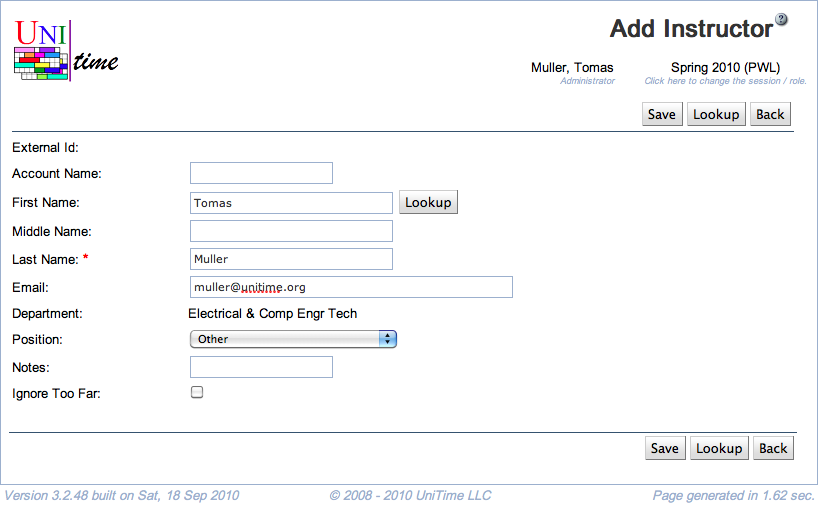
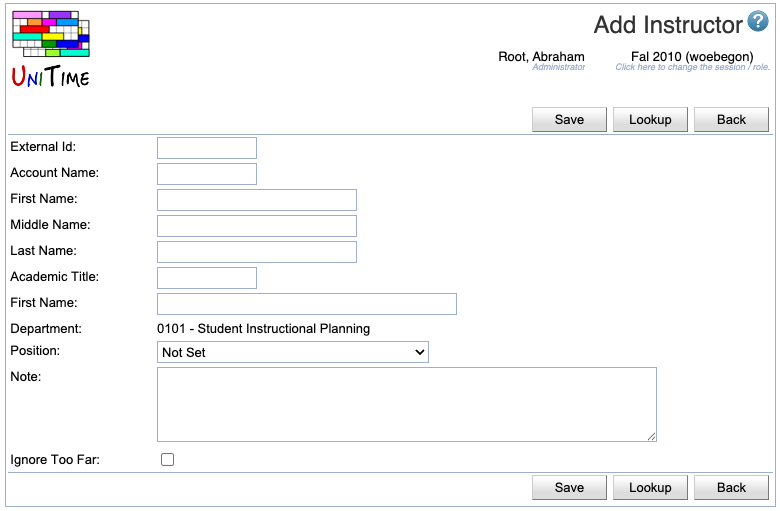
Add/Edit Instructor
- new screenshots, new fields, text cleanup

diff --git a/instructor-detail.md b/instructor-detail.md
@@ -14,7 +14,17 @@ In the Instructor Detail screen, you can see information about a given instructo
 
 The header of this section is the instructor's name.
 
-To see a detailed description of each of the fields in this section (External Id, Account Name, ...), go to the description of the [Edit Instructor](edit-instructor) screen.
+To see a detailed description of each of the fields in this section (External Id, Account Name, ...), go to the description of the [Edit Instructor](edit-instructor) screen. Or [Instructor Assignment Preferences](instructor-assignment-preferences) for properties related to the [Instructor Scheduling](instructor-scheduling).
+
+If the instructor exists in multiple departments (meaning that there is a record with the same External Id), the instructor's **Department** may appear as a drop-down for quick navigation between instructor's departments
+
+## Instructor Survey
+
+If the instructor has filled in the [Instructor Survey](instructor-survey), the departmental schedule manager will see the filled in information in this section. The section also automatically indicates the discrepancies between the survey and the instructor's preferences.
+
+If the survey has been already submitted, the **Unsubmit** button allows to un-submit the survey and let the instructor make additional changes.
+
+The **Copy Preferences** can be used to reset the instructor preferences to match the survey information exactly.
 
 ## Class Assignments
 
@@ -32,6 +42,9 @@ For each class, you can see the following properties:
 * **Share**
 	* Indicates the percentage of teaching activity for this class associated with this instructor
 
+* **Responsibility**
+	* Teaching responsibility, when selected on the class assignment
+
 * **Limit**
 	* Class limit for that class
 
@@ -41,12 +54,12 @@ For each class, you can see the following properties:
 * If a timetable has been created that includes this class, you will also see
 	* **Time**
 		* Time assigned to this class during timetabling
+	* **Date**
+		* Date pattern of the class
+	* **Room**
+		* Room assigned to this class during timetabling
 
-* **Date**
-	* Date pattern of the class
-
-* **Room**
-	* Room assigned to this class during timetabling
+A conflicting assignment is indicated by a light red background and the warning ![Warning](images/icon-error.png) icon. Click the icon to learn more details.
 
 ## Examinations
 
@@ -88,15 +101,24 @@ Information about examinations associated with the instructor.
 
 Clicking on an examination takes you to its [Examination Detail](examination-detail) screen which contains more detailed information.
 
+## Instructor Unavailability
+
+When instructor event unavailability is enabled (`unitime.events.instructorUnavailability` is set to `true` in the [Application Configuration](application-configuration)), list all committed events that the instructor has listed as the main or additional contact. These will be used as additional unavailabilites for the instructor by the course timetabling solver.
+
 ## Preferences
 
 Preferences for the given instructor. You can hide or unhide this part of the Instructor Detail screen by clicking on the small square in front of the Preferences section heading. If you want to change these preferences, click on the Edit Instructor Preferences button in this detail screen. That will take you to the [Instructor Preferences](instructor-preferences) screen. There are more details about instructor preferences in the description of the [Instructor Preferences](instructor-preferences) screen.
 
-## Instructor Scheduling
+Preferences related to the [Instructor Scheduling](instructor-scheduling) can be edited on the [Instructor Assignment Preferences](instructor-assignment-preferences) page by clicking the Edit Assignment Preferences button. These include Time, Distribution, and Course preferences.
+
+
+## Enrollments
+
+If the instructor is also a student (there is a student with matching external Id in the current academic session), the [Enrollments](enrollments-of-class-or-course) table is displayed, showing all enrollments if the student.
+
+## Teaching Assignments
 
 If the [Instructor Scheduling](instructor-scheduling) is enabled, the Instructor Detail page shows instructor assignment information about the instructor. Besides of the new teaching preference, maximal teaching load, assigned instructor attributes, and course preferences, the Instructor Detail page contains a new table with [Teaching Assignments](teaching-assignments) that are assigned to the instructor. More details are shown when an assignment is clicked showing the [Teaching Assignment Detail](teaching-assignment-detail) dialog.
-
-Also, if the instructor is also a student (there is a student with matching external id in the current academic session), the [Enrollments](enrollments-of-class-or-course) table is displayed, showing all enrollments if the student. These include instructor assignments (dark blue color) as well as student class enrollments.
 
 ## Operations
 

diff --git a/edit-instructor.md b/edit-instructor.md
@@ -8,27 +8,30 @@ title: Edit Instructor
 
 Edit information about an instructor in this Edit Instructor screen.
 
-![Edit Instructor](images/edit-instructor-2.png){:class='screenshot'}
+![Edit Instructor](images/edit-instructor-1.png){:class='screenshot'}
 
 ## Details
 
 * **External Id**
 	* Id that identifies this instructor throughout UniTime
 	* If possible, matches the university's employee Id
-	* Cannot be changed by the user (unless an administrator adds a new setting with name "tmtbl.instructor.allowExternalIdEdit" and value "true" to make external id editable)
-	* Can be looked up by clicking on the Lookup button (see description in Operations) if you enter the last name or the account name for the instructor
 
 * **Account Name**
 	* If you know the university account name of a new instructor, you can look the person up by this account
+	* **Note:** This field is user maintained and is not required elsewhere in UniTime
 
 * **First Name**
 	* First name of the instructor
-	* The **Lookup** button next to the first name takes you to the People Lookup screen, pre-populated with the instructor's name; this lookup operates over all tables in UniTime (such as instructors, managers, ...), as opposed to the Lookup in the top/bottom row of buttons
-
+	
 * **Middle Name**
+	* Middle name of the instructor
 
 * **Last Name**
+	* Last name of the instructor
 	* The only mandatory field in this screen
+
+* **Last Name**
+	* Academic title of the instructor (optional)
 
 * **Email**
 	* Instructor's email address
@@ -38,7 +41,7 @@ Edit information about an instructor in this Edit Instructor screen.
 
 * **Position**
 	* Position classification of this instructor
-	* Note: This field is user maintained and is not required elsewhere in UniTime; it may be useful, however, for grouping instructors or in exports for departmental report
+	* **Note:** This field is user maintained and is not required elsewhere in UniTime; it may be useful, however, for grouping instructors or in exports for departmental report
 
 * **Notes**
 	* For your use only
@@ -60,13 +63,7 @@ Edit information about an instructor in this Edit Instructor screen.
 		* Note: The button is displayed only when there is no class or examination associated with this instructor
 
 * **Lookup** (Alt+L)
-	* Look up this instructor's External Id (and other related information) in the imported staff tables
-		* Takes you to the screen with the same name (Edit Instructor) which has the search results in it
-			* First, you will see a list of matches by the university account (if you filled in the account name)
-			* The second part are matches by last name regardless of department (if the instructor teaches for more than one department, you can see the same name with the same External Id displayed several times)
-			* Click on the radio button in front of the correct person and click **Select Instructor** if you found the right match (that will populate the External Id of this instructor)
-			* Click **Cancel** if you want to return to the previous screen without selecting anybody
-		* Message "No matching records found" will appear in the Edit Instructor screen if there is no record matching the instructor's name or the account name that you entered
+	* Look up this instructor's External Id (and other related information) using the [People Lookup](people-lookup) dialog
 
 * **Previous** (Alt+P)
 	* Save changes and go to the Edit Instructor screen for the previous instructor in your list of instructors

diff --git a/add-instructor.md b/add-instructor.md
@@ -11,7 +11,45 @@ In the Add Instructor screen, you can add an instructor to your list of instruct
 
 ## Details
 
-See the description of the [Edit Instructor](edit-instructor) screen for detailed explanation of the fields.
+* **External Id**
+	* Id that identifies this instructor throughout UniTime
+	* If possible, matches the university's employee Id
+
+* **Account Name**
+	* If you know the university account name of a new instructor, you can look the person up by this account
+	* **Note:** This field is user maintained and is not required elsewhere in UniTime
+
+* **First Name**
+	* First name of the instructor
+	
+* **Middle Name**
+	* Middle name of the instructor
+
+* **Last Name**
+	* Last name of the instructor
+	* The only mandatory field in this screen
+
+* **Last Name**
+	* Academic title of the instructor (optional)
+
+* **Email**
+	* Instructor's email address
+
+* **Department**
+	* Shows the department selected in the [Instructors](instructors) screen
+
+* **Position**
+	* Position classification of this instructor
+	* **Note:** This field is user maintained and is not required elsewhere in UniTime; it may be useful, however, for grouping instructors or in exports for departmental report
+
+* **Notes**
+	* For your use only
+
+* **Ignore Too Far**
+	* By default (when unchecked), the solver prohibits placement of back to back classes taught by the same instructor in rooms that are more than a short distance apart
+	* If checked, the solver will strongly discourage but not prohibit long distances between back to back classes of this instructor
+		* Use with caution!
+		* When your timetable is created, make sure you check whether the instructor for whom you chose to ignore too far distances has a feasible timetable (that the instructor can in fact teach the classes that are back to back)
 
 ## Operations
 
@@ -19,13 +57,7 @@ See the description of the [Edit Instructor](edit-instructor) screen for detaile
 	* Save information about this instructor and go back to the [Instructors](instructors) screen
 
 * **Lookup** (Alt+L)
-	* Look up this instructor's External Id (and other related information) in the imported staff tables
-		* Takes you to the screen with the same name (Edit Instructor) which has the search results in it
-			* First, you will see a list of matches by the university account (if you filled in the account name)
-			* The second part are matches by last name regardless of department (if the instructor teaches for more than one department, you can see the same name with the same External Id displayed several times)
-			* Click on the radio button in front of the correct person and click **Select Instructor** if you found the right match (that will populate the External Id of this instructor)
-			* Click **Cancel** if you want to return to the previous screen without selecting anybody
-		* Message "No matching records found" will appear in the Edit Instructor screen if there is no record matching the instructor's name or the account name that you entered
+	* Look up this instructor's External Id (and other related information) using the [People Lookup](people-lookup) dialog
 
 * **Back** (Alt+B)
 	* Go back to the previous screen without saving any information

diff --git a/people-lookup.md b/people-lookup.md
@@ -8,6 +8,8 @@ title: People Lookup
 
 The People Lookup screen provides interface for looking up people by name across UniTime tables (not only the imported staff data).
 
+![People Lookup](images/people-lookup.png){:class='screenshot'}
+
 ## Details
 
 **Filter**
